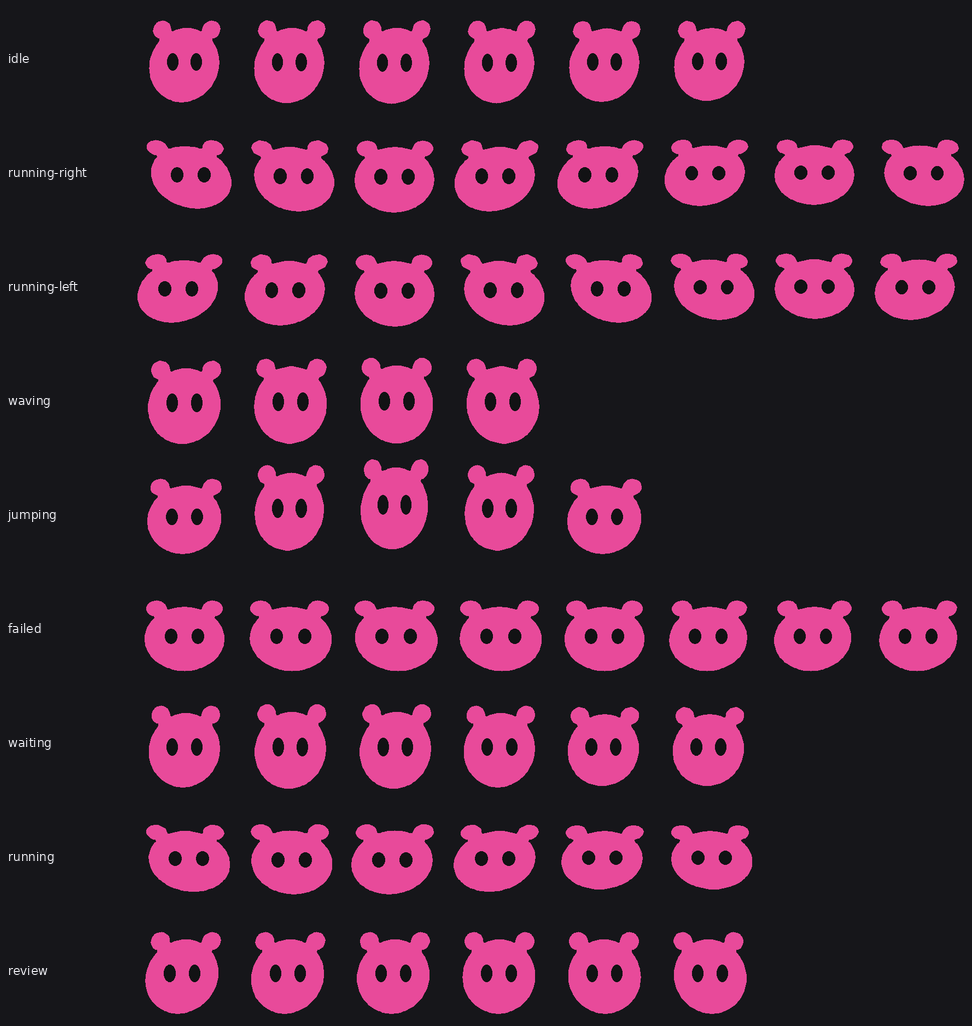
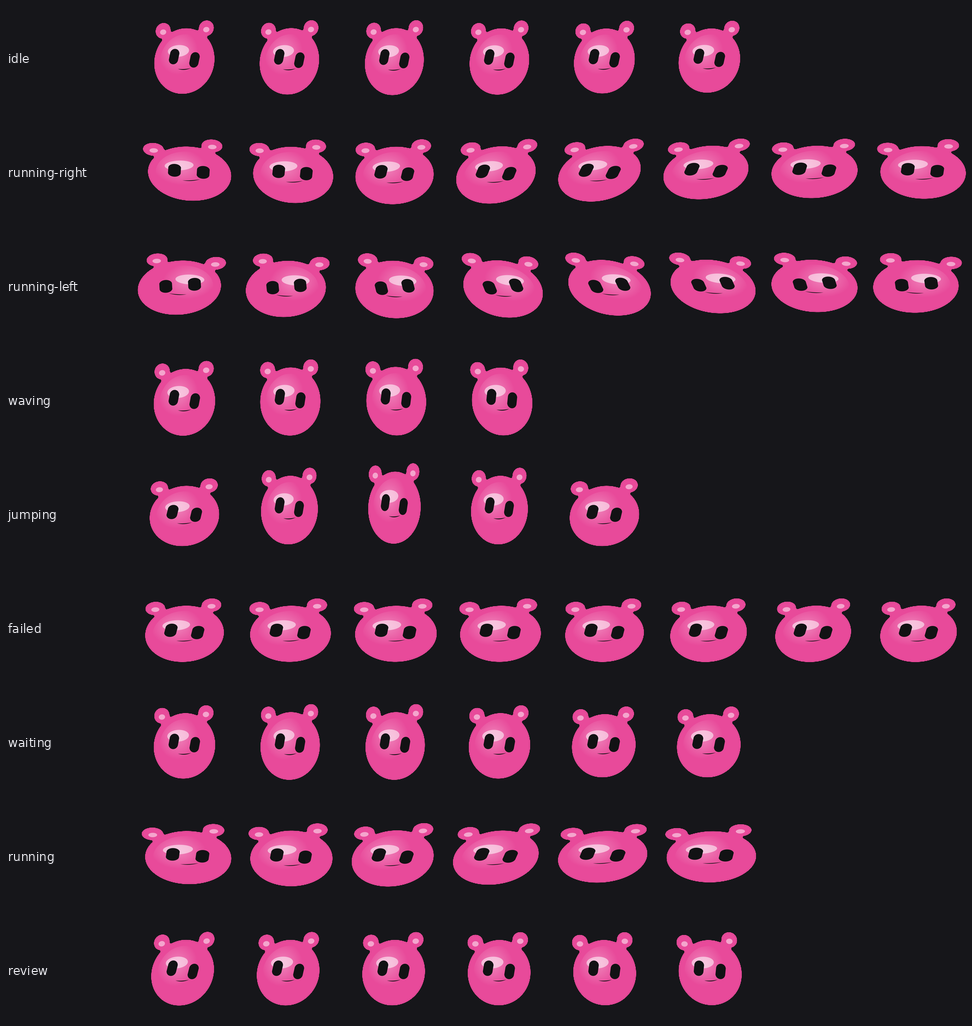
Serve pack and demos from the live engine SVG, not a flat stamp.
Atlas cells are cairosvg rasters of the same stadium paths, idle lean, and gummy gloss BlobElement draws.

diff --git a/src/pack/engine-frame.js b/src/pack/engine-frame.js
@@ -1,0 +1,138 @@
+/**
+ * One paused engine frame as SVG — same paths and face transform as BlobElement._tick.
+ * Pack/demo rasters call this. They do not invent a second painter.
+ */
+import { defineBlob } from "../engine/define-blob.js";
+import {
+  CX,
+  IDLE_LEAN,
+  eyePathAt,
+  eyeWidthScale,
+  mapPoint,
+  mouthPath,
+  pathFromRing,
+} from "../engine/face.js";
+import { blinkOpenY } from "../engine/blink.js";
+import { CODEX_ROWS, FRAME_COUNTS, HOLE } from "./const.js";
+import { posesFor } from "./geometry.js";
+
+const DEG = Math.PI / 180;
+
+function poseOf(api, state) {
+  let raw = {};
+  try {
+    raw = api.targetsFor(state);
+  } catch {
+    raw = api.targetsFor(api.STATES.includes("idle") ? "idle" : api.STATES[0]);
+  }
+  return { ...IDLE_LEAN, scale: 1.09, earL: 1, earR: 1, ...raw };
+}
+
+function mapFnFor(pose) {
+  const turn = pose.turn ?? 0;
+  const tilt = pose.tilt ?? 0;
+  const a = (pose.roll ?? 0) * DEG;
+  const ox = Number.isFinite(pose.faceOx) ? pose.faceOx : 0;
+  const oy = Number.isFinite(pose.faceOy) ? pose.faceOy : 0;
+  return (x, y) => {
+    const xr = x * Math.cos(a) - y * Math.sin(a) + ox;
+    const yr = x * Math.sin(a) + y * Math.cos(a) + oy;
+    return mapPoint(xr, yr, turn, tilt);
+  };
+}
+
+function faceTransform(pose, motion = {}) {
+  const tilt = pose.tilt ?? 0;
+  const turn = pose.turn ?? 0;
+  const roll = pose.roll ?? 0;
+  const scale = pose.scale ?? 1;
+  const breathe = motion.sy ?? 1;
+  const sy = scale * breathe * (1 - tilt * 0.002) * (motion.scaleY ?? 1);
+  const sx = (scale / Math.max(breathe, 0.72)) * (motion.sx ?? 1);
+  const rot = turn * 0.55 + roll * 0.45;
+  const x = (motion.ox ?? 0) + (motion.x ?? 0);
+  const y = (motion.oy ?? 0) + (motion.y ?? 0);
+  const shear = motion.shear ?? 0;
+  const skew = Math.atan(shear) * (180 / Math.PI);
+  return `translate(${CX + x} ${CX + y}) rotate(${rot}) skewX(${skew.toFixed(3)}) scale(${sx} ${sy}) translate(${-CX} ${-CX})`;
+}
+
+export function renderEngineSvg(recipe, { state = "idle", motion = {} } = {}) {
+  const api = defineBlob(recipe);
+  const pose = poseOf(api, state);
+  const fill = recipe.fill ?? "#ff5ec8";
+  const hole = HOLE;
+  const chrome = recipe.finish !== "flat" && recipe.skin !== "flat";
+  const mapFn = mapFnFor({ ...pose, faceOx: recipe.face?.ox, faceOy: recipe.face?.oy });
+  const silOpts = {};
+  if (pose.earL != null) silOpts.earL = pose.earL;
+  if (pose.earR != null) silOpts.earR = pose.earR;
+  const ring = api.silhouette(silOpts);
+  const bodyD = pathFromRing(ring.map(([x, y]) => mapPoint(x, y, pose.turn ?? 0, pose.tilt ?? 0)));
+  const size = eyeWidthScale(pose.eyeScale ?? 1.28);
+  const openY = blinkOpenY(1, pose.eyeScale);
+  const face = { size: 1.28, gap: 2.55, height: 1, eyeWidth: 0.82, eyeHeight: 1.32, ...(recipe.face ?? {}) };
+  const eyeL = eyePathAt(mapFn, -1, openY, size, pose.gazeX ?? 0, pose.gazeY ?? 0, pose.turn ?? 0, pose.tilt ?? 0, 1, face);
+  const eyeR = eyePathAt(mapFn, 1, openY, size, pose.gazeX ?? 0, pose.gazeY ?? 0, pose.turn ?? 0, pose.tilt ?? 0, 1, face);
+  const clipId = "hblob-clip";
+  const coreId = "hblob-core";
+  const gloss = (cx, cy, rx, ry, op) => {
+    const [px, py] = mapPoint(cx, cy, pose.turn ?? 0, pose.tilt ?? 0);
+    return `<ellipse cx="${px.toFixed(2)}" cy="${py.toFixed(2)}" rx="${rx}" ry="${ry}" fill="#fff" opacity="${chrome ? op : 0}"/>`;
+  };
+  const [corex, corey] = mapPoint(0, 10, pose.turn ?? 0, pose.tilt ?? 0);
+  const mouth = chrome ? mouthPath(pose.turn ?? 0, pose.tilt ?? 0) : "";
+
+  return `<?xml version="1.0" encoding="UTF-8"?>
+<svg xmlns="http://www.w3.org/2000/svg" viewBox="-15 -15 259 259" width="384" height="384">
+  <defs>
+    <clipPath id="${clipId}"><path d="${bodyD}"/></clipPath>
+    <radialGradient id="${coreId}" cx="38%" cy="32%" r="72%">
+      <stop offset="0%" stop-color="#fff" stop-opacity=".32"/>
+      <stop offset="55%" stop-color="#fff" stop-opacity="0"/>
+    </radialGradient>
+  </defs>
+  <g transform="${faceTransform(pose, motion)}">
+    <path d="${bodyD}" fill="${fill}"/>
+    <g clip-path="url(#${clipId})">
+      <ellipse cx="${corex.toFixed(2)}" cy="${corey.toFixed(2)}" rx="56" ry="62" fill="url(#${coreId})" opacity="${chrome ? 1 : 0}"/>
+      ${gloss(-14, -16, 24, 13, 0.55)}
+      ${gloss(-50, -60, 7, 6, 0.5)}
+      ${gloss(50, -60, 7, 6, 0.5)}
+      <path d="${eyeL}" fill="${hole}"/>
+      <path d="${eyeR}" fill="${hole}"/>
+      ${mouth ? `<path d="${mouth}" fill="${hole}" opacity="1"/>` : ""}
+    </g>
+  </g>
+</svg>`;
+}
+
+export function buildEngineFrames(recipe) {
+  const api = defineBlob(recipe);
+  const frames = [];
+  let right = [];
+  for (let row = 0; row < CODEX_ROWS.length; row++) {
+    const name = CODEX_ROWS[row];
+    const count = FRAME_COUNTS[name];
+    const motions = posesFor(name, count);
+    const state = api.STATES.includes(name)
+      ? name
+      : name === "running" && api.STATES.includes("run")
+        ? "run"
+        : api.STATES.includes("idle")
+          ? "idle"
+          : api.STATES[0];
+    if (name === "running-left") {
+      for (let col = 0; col < count; col++) {
+        frames.push({ col, row, svg: right[col].svg, flip: true });
+      }
+      continue;
+    }
+    for (let col = 0; col < count; col++) {
+      const cell = { col, row, svg: renderEngineSvg(recipe, { state, motion: motions[col] }), flip: false };
+      frames.push(cell);
+      if (name === "running-right") right[col] = cell;
+    }
+  }
+  return frames;
+}

diff --git a/playground/lab.html b/playground/lab.html
@@ -125,8 +125,8 @@
         <label class="slide">Belly <input id="belly" type="range" min="8" max="100" value="62" /> <span id="belly-v">62</span></label>
         <h2>Skin</h2>
         <div class="chips" id="skins">
-          <button class="chip" data-skin="flat" aria-pressed="true">flat</button>
-          <button class="chip" data-skin="gummy">gummy</button>
+          <button class="chip" data-skin="flat">flat</button>
+          <button class="chip" data-skin="gummy" aria-pressed="true">gummy</button>
         </div>
         <h2>State</h2>
         <div class="chips" id="states">
@@ -285,6 +285,7 @@
           face: r.face,
           states: r.states,
           fill: r.fill,
+          finish: r.skin === "flat" ? "flat" : "gummy",
         });
         const el = document.createElement(tag);
         el.setAttribute("size", "260");

diff --git a/src/pack/export.js b/src/pack/export.js
@@ -3,7 +3,7 @@ import { spawnSync } from "node:child_process";
 import { dirname, join } from "node:path";
 import { fileURLToPath } from "node:url";
 import { HOLE } from "./const.js";
-import { buildCells } from "./geometry.js";
+import { buildEngineFrames } from "./engine-frame.js";
 import { hexToRgba, petMeta, saveRecipe, writePetJson } from "./recipe.js";
 
 const here = dirname(fileURLToPath(import.meta.url));
@@ -18,7 +18,7 @@ export function exportPack(packDir, recipe) {
     fill: hexToRgba(recipe.fill),
     hole: hexToRgba(HOLE),
     outDir: packDir,
-    cells: buildCells(recipe),
+    cells: buildEngineFrames(recipe),
   };
 
   const r = spawnSync("python3", [WRITER], {

diff --git a/src/pack/recipe.js b/src/pack/recipe.js
@@ -147,7 +147,8 @@ export function ensurePackRecipe(recipe) {
   const next = JSON.parse(JSON.stringify(recipe ?? {}));
   next.schemaVersion = next.schemaVersion ?? 0;
   next.tag = next.tag || "hblob-pet";
-  next.finish = next.finish || "flat";
+  next.finish = next.finish || "gummy";
+  next.skin = next.skin || "gummy";
   next.face = {
     size: 1.28,
     gap: 2.55,

diff --git a/src/pack/geometry.js b/src/pack/geometry.js
@@ -80,7 +80,7 @@ function stepIdle(n) {
   return out;
 }
 
-function posesFor(rowName, count) {
+export function posesFor(rowName, count) {
   switch (rowName) {
     case "idle":
       return stepIdle(count);

diff --git a/src/pack/write-atlas.py b/src/pack/write-atlas.py
@@ -1,11 +1,13 @@
 #!/usr/bin/env python3
-"""Raster silhouette rings into a Codex atlas. Transparent backdrop."""
+"""Raster engine SVG frames into a Codex atlas. Transparent backdrop."""
 from __future__ import annotations
 
 import json
 import sys
+from io import BytesIO
 from pathlib import Path
 
+import cairosvg
 from PIL import Image, ImageDraw
 
 CELL_W = 192
@@ -15,20 +17,35 @@ ROWS = 9
 ATLAS_W = COLS * CELL_W
 ATLAS_H = ROWS * CELL_H
 CLEAR = (0, 0, 0, 0)
+SRC = 384
 
 
-def draw_cell(cell_spec: dict, fill: tuple, hole: tuple) -> Image.Image:
+def svg_cell(svg: str, flip: bool) -> Image.Image:
+    png = cairosvg.svg2png(bytestring=svg.encode("utf-8"), output_width=SRC, output_height=SRC)
+    im = Image.open(BytesIO(png)).convert("RGBA")
+    im = im.resize((CELL_W, CELL_W), Image.Resampling.LANCZOS)
+    cell = Image.new("RGBA", (CELL_W, CELL_H), CLEAR)
+    cell.paste(im, (0, (CELL_H - CELL_W) // 2), im)
+    if flip:
+        cell = cell.transpose(Image.Transpose.FLIP_LEFT_RIGHT)
+    return cell
+
+
+def draw_poly(cell_spec: dict, fill: tuple, hole: tuple) -> Image.Image:
     im = Image.new("RGBA", (CELL_W, CELL_H), CLEAR)
-    d = ImageDraw.Draw(im)
-    ring = [(float(x), float(y)) for x, y in cell_spec["ring"]]
+    draw = ImageDraw.Draw(im)
+    ring = [(float(x), float(y)) for x, y in cell_spec.get("ring") or []]
     if len(ring) >= 3:
-        d.polygon(ring, fill=fill)
+        draw.polygon(ring, fill=fill)
     for e in cell_spec.get("eyes") or []:
+        if e.get("ring"):
+            draw.polygon([(float(x), float(y)) for x, y in e["ring"]], fill=hole)
+            continue
         cx = float(e["cx"])
         cy = float(e["cy"])
         rx = max(2.0, float(e["rx"]))
         ry = max(2.0, float(e["ry"]))
-        d.ellipse((cx - rx, cy - ry, cx + rx, cy + ry), fill=hole)
+        draw.ellipse((cx - rx, cy - ry, cx + rx, cy + ry), fill=hole)
     return im
 
 
@@ -42,7 +59,10 @@ def main() -> int:
     atlas = Image.new("RGBA", (ATLAS_W, ATLAS_H), CLEAR)
     idle = None
     for cell in spec["cells"]:
-        im = draw_cell(cell, fill, hole)
+        if cell.get("svg"):
+            im = svg_cell(cell["svg"], bool(cell.get("flip")))
+        else:
+            im = draw_poly(cell, fill, hole)
         col = int(cell["col"])
         row = int(cell["row"])
         atlas.paste(im, (col * CELL_W, row * CELL_H), im)
